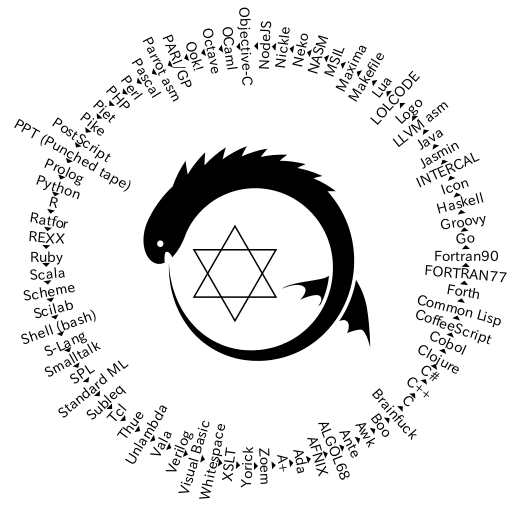
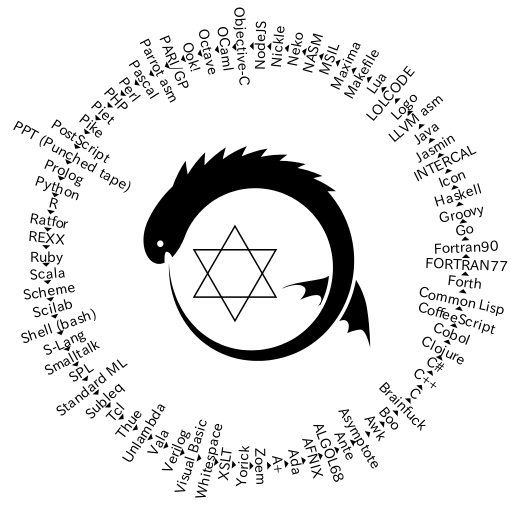
* the 75th language: Asymptote

Changed region(s): [[0.0312, 0.0, 1.0, 1.0], [0.0938, 0.4375, 0.125, 0.4688], [0.0625, 0.4062, 0.0938, 0.4375]]

diff --git a/QR.rb b/QR.rb
@@ -7,56 +7,56 @@ f(%((display~"#{e[%(#{f(%[echo~-En~"#{Q[e[e["Transcript~show:~'#{d[%(H#{Q[E[%(fu
 ersion='1.0'"}?><?xml-#{I="stylesheet"}~type='te xt/xsl'  href='QR  .xslt'?><xsl:#{I+O}~xmlns:xsl='http://www.w3.org/1999/`x5
 8SL/Transform'><xsl:output~method='text '/><#   {U="     xsl:      template"}~match='/'><`x21[CDATA[#{%(H,format="#{y="";f("^
 H{-}{txt}{#{Q[E[%(with~Ada.Text_Io;pr  oce     d                            ure~qr~is~beg!~Ada.Text_Io.Put_L!e("#{d[%(Z"#{e[%
-W[STRINGz:=~226+~153,a:=z+~16 6,b:=    a                                   +"2"+z+~160,c:=b+"8"+z+~165,t:="#{d[%(BEGIN{s=#{E[
-%(f={n~as~!t|'Y'*n};a=0;s=#{  V[Q                                                    [E["#!clude"+M["#!clude<iostream>`n!t~mX
-{std::cout<<#{E[%(class~Pro    g                                                    ram{public~static~void~MX{System.#{C+E[(%
-((doseq[s(lazy-cat["IDENTI                                                                 FICATION~DIVISION.""PROGRAM-ID.~QR
-.""PROCEDURE~DIVISION."'D                                                                 ISPLA`x59](map~#(str"~~~~^""(.repla
-ce~%1"^"""^"^"")"^"&")(r                                                                       e-seq~#".{1,45}""#{e[%((f=(n)-
->Array(n+1).jo!~"Y");co                                                                       nsole.log("%s",#{V[E[%((H-l!e"#
-{e[%(~:~A~."#{g*9}"~;                                    ~:~B~A~."                                ~WRITE(*,*)'"~A~;~:~C~B~T`x
-59PE~."~'"~CR~;~:~D                              ~S"~#$D"~C~S^"~Z~^"(&"~C~                       S^"~#{e[%(package~ma!;import
-"fmt";func~mX{fmt.                           Pr!t#{E[%(Z'#{e[("ma!=putStr"+E[%(                   procedure~mX;i:=c:=0;s:=#{E
-[%(.class~public                         ~QR`n.super~#{$T="java/io/Pr!tStream"}`n.                  method~public~static~ma!(
-[L#{S="java/lan                        g/"}SJ;)V~;]`n.limit~stack~2`ngetstatic~#{S}Sy                stem/out~L#$T;`nldc~"#{e
-[%(class~QR{pu                       blic~static~void~ma!(SJ[]v){SJ~c[]=new~SJ[9000],y=               "",z=y,s="#{z=t=(0..r=q
-=126).map{|n|                      [n,[]]};a="";b=->n{a<<(n%78+55)%84+42};(%(@s=global[#               {i=(s=%(PR~"`x48AI^~1.
-2~PR~"VISIBL                      E^~"#{Q["Z"+E[%(all:`n`t@echo~'#{d["l!el:99999;Z#{E[%(.a              ssembly~t{}.method~st
-atic~void~M                     X{.entrypo!t~ldstr"# {e[%(m:db`x60#{e[s="$Z#{E[%(Zf#{E["req             uire('util').Z#{E["#i
-mport"+M["Z                    _sJ"+E[%(s=toascii#{   E["Z#{E[%(say"#{e["#$D(output);beg!~H(#            {f((p="eval";%($_="#
-{s=%(<?php                    ~function~f($n){retu  r  n~str_repeat("Y",$n);};$f="f";$z=3+$w=s            trlen($s=#{V[Q[E["!
-t~mX{H#{E[                   %((___________)dup~=  /s(  |~~~~~.~~~|)def(#{Q["qr:-H('#{Q[e[%(fo            r~c~!"".jo!(["say~'
-%s'^n"%l~f       or         ~l~!#{E[d[%(eval$s=%  q(#$s  )),?']]}.split("^n")]):Z('cat("r=fput(            char(%d))^n")'%ord
-(c))`nZ('c                 at("end^n")'))],?']}  ').",B]  }){9~7{exch~dup~1~and~79~mul~32~add~ex           ch~2~idiv~3~1~roll
-~s~exch~2~!               dex~exch                                     ~put~1~sub~dup~6~eq{1~sub           }if}repeat~s~=~pop
-~pop}forall~        =~q  uit)]};ret  urn~0;}  "]],"{$f(",")  }"]})*3  ;echo"^x89PNG^r^n^x1a^n";$m          ="";$t="^xc0^0^xff
-";for($i=-1;$       i<128*$z;$m.=$c-  -?($w  -$c||$i>$z)&&$i  /$z<(  $c<$w?ord($s[(!t)($c/3)]):$c          --%3+2)?$t[2].$t[$
-c%3%2].$t[$c%3]:   "^0^0^0":"^0")$c=+  +$i  %$z;foreach(array  ("I  `x48DR".pack("NNCV",$w+2,128,          8,2),"IDAT".gzcomp
-ress($m),"IEND")as$d)e cho~pack("NA*N"  ,  strlen($d)-4,$d,crc  3  2($d));?>);(s+N*(-s.size%6)).u          npack("B*")[0].K(/
-.{6}/){n=$&.to_i~2;((n +14)/26*6+n+47).   chr}}";s|.|$n=ord$&;s   ubstr~unpack(B8,chr$n-!t($n/32)          *6-41),2|eg;Z~pack
-"B*",$_).scan(/[~,-:A- z]+|(.)/){p="s+  +  #{$1?"chr~#{$1.ord}  +  e":$&+?+};"+p};p),1){"'#     $          s',"}}'')end."]}"`
-nend)]};quit"]};t=num2  cell(b=11-cei  l(s  /13));for~n=1:9m=  {};  for~i=1:141f               =          @  (x,y,n)repmat(["
-Ook"~x~"~Ook"~y~32],[1~ abs(n)]);m(i  )=[f(  z=46,63,n)~f(q=  z-(i<  13)*13,q                  ,          i   -13)~f(33,z,1)~
-f(63,z,n)];end;t(x)=m(d  iff([0~s(x  =b==n)]  )+13);end;Zf(  "%%s",t  {:}))]]]}"]})+          N          ]     };"+N]}`x60`ng
-lobal~_start`n_start:mov ~edx,#{s.                                     size}`nmov~e           c          x      ,m`nmov~ebx,1
-`nmov~eax,4`n!t~128`nmov  ~ebx,0`nmov~eax,1`n!t  ~128)]}  "call~void~[mscorlib]Syst em.Conso l          e       ::Write(sJ)re
-t})]};quit();",?$].K(?'){  "'^''"}}')].K(/[:"]/,  ":^0"  ),/[~Y`t;"(){}`[`]]/]}"~PR~"`x4bT` x          4         8`x58B`x59E~
-B`x59E)).size+1}x~i8]c"#{s  .K(/[^"]/){"^%`x58"%$  &.o  rd}}^00"declare~i32@puts(i8*)def!e~i          3          2@mX{%1=call
-~i32@puts(i8*getelementptr(  [#{i}x~i8]*@s,i32~0,i  3  2~0))ret~i32~0})).bytes{|n|r,z=z[n]|          |           (b[r/78];b[r
-];q<6083&&z[n]=[q+=1,[]];t[n   ])};b[r/78];b[r]}";!   t~i=0,n=0,q=0;for(;++n<126;)c[n]=""           +             (char)n;for
-(;i<s.length();){q=q*78+(s.ch   arAt(i)-13)%84;if(i+ +%2>0){y=q<n?c[q]:y;c[n++]=z+y.char           A              t(0);System
-.out.Z(z=c[q]);q=0;}}}})]}"`n!    vokevirtual~#$T/Zln(L#{S}SJ;)V`nreturn`n.end~method)           +N]};H(          "DO,1<-#"||
-*s);s?while~t:=ord(move(1))do{i+    :=1;u:=-i;every~0to~7do{u:=u*2+t%2;t/:=2};H("PLE           ASE")^(i%          4/3);H("DO,
-1SUB#"||i||"<-#"||((c-u)%256));c:      =u;};H("PLEASEREADOUT,1^nPLEASEGIVEUP");en            d)]).tr(B,?&)]}'.tr  ('&','YY');
-)]};})]}"~DUP~FOR~S"~&A,&"~C~NE`x58       T~S^"~&A)^",&"~C~0~DO~B~."~&char("~C             OUNT~.~."~),&'"~CR~LOO  P~S^"~&^"^
-""~C~S"~end~#$D"~C~A~."~STOP"~CR~A~."~        END"~CR~B`x59E~;~D~)]}"))],'               #{f(',')}']}))]}"))["~~~  ~^"~^".""S
-TOP~RUN."])](Zln(str"#{g*8}"s)))))]};}})             ]};}"]]],"$(f                    (","))"]};for~i~!~range(len(s)):b~as~!t
-=s[i];a-=b;Z(('+'*-a~if~0>a~else'-'*a)+'.');                                       a=b;).tr~B,?`x21]};K(/`x21/,"Y",s);Z~s})]}
-";FORiTO`~UPBtDO`~INTn:=ABSt[i];Z(~(50+n%64)+c+~                              (50+n%8MOD8)+c+~(50+nMOD8)+b+"`x4a"+a)OD]*"REPR
-"]}")]}");end;)]+"`nsys.exit~0",/[^{}]/]}}",35){y<<",`n                "+$S;"%s"}}")+y}]]></#{U}></xsl:#{I}>"].K~N,'"&~VbLf~&
-"'}":s="~~~":For~i=0To~7:s~&=Chr(32-(Asc(c)>>7-i~And~1)*23):Next:#{C}(s~&n~&Chr(9)&n~&"~~"):Next:#{C}(n~&n~&n):End~Sub:End~Mo
-dule),3){%($H("%s",#$S);)+N}}end~endmodule)],?%]};return~0;}).reverse],/[`[`]$]/],"[f~",?]]}"~^x60.&]k^n::=^na)]};Z"0~0~-1";)
-]]};),?']}';cr"]]]}"|sed~-E~-e~'s/([`x5eY]|Y.){1,120}/Zf("%s","^0");^n/g'],7){%(Zf("%s","#{d[d[$s],?']}")`n)}}quit)]}")),196)
-{%(Z#$S;)}}})).gsub(/[!HJKXYZ^`~]/){[B*2,:write,B,:tring,:gsub,"ain()",B*4,:print,g,:in][$&.ord%47%12]})))*"")#_buffer_for_fu
-#_buffer_for_future_bug_fixes_#_buffer_for_future_bug_fixes_#_buffer_for_future_bug_fixes_#_buffer_for_future_bug_fixes_#_buf
+W[STRINGz:=~226+~153,a:=z+~16 6,b:=    a                                   +"2"+z+~160,c:=b+"8"+z+~165,t:="#{d[%(H('#{Q[e[%(B
+EGIN{s=#{E[%(f={n~as~!t|'Y'*  n};                                                    a=0;s=#{V[Q[E["#!clude"+M["#!clude<iostr
+eam>`n!t~mX{std::cout<<#{E[    %                                                    (class~Program{public~static~void~MX{Syst
+em.#{C+E[(%((doseq[s(lazy-                                                                 cat["IDENTIFICATION~DIVISION.""PRO
+GRAM-ID.~QR.""PROCEDURE~D                                                                 IVISION."'DISPLA`x59](map~#(str"~~~
+~^""(.replace~%1"^"""^"^                                                                       "")"^"&")(re-seq~#".{1,45}""#{
+e[%((f=(n)->Array(n+1).                                                                       jo!~"Y");console.log("%s",#{V[E
+[%((H-l!e"#{e[%(~:~A~                                    ."#{g*9}"                                ~;~:~B~A~."~WRITE(*,*)'"~A~
+;~:~C~B~T`x59PE~."~                              '"~CR~;~:~D~S"~#$D"~C~S^"                       ~Z~^"(&"~C~S^"~#{e[%(package
+~ma!;import"fmt";f                           unc~mX{fmt.Pr!t#{E[%(Z'#{e[("ma!=p                   utStr"+E[%(procedure~mX;i:=
+c:=0;s:=#{E[%(.c                         lass~public~QR`n.super~#{$T="java/io/Pr!t                  Stream"}`n.method~public~
+static~ma!([L#{                        S="java/lang/"}SJ;)V~;]`n.limit~stack~2`ngetst                atic~#{S}System/out~L#$T
+;`nldc~"#{e[%(                       class~QR{public~static~void~ma!(SJ[]v){SJ~c[]=new~               SJ[9000],y="",z=y,s="#{
+z=t=(0..r=q=1                      26).map{|n|[n,[]]};a="";b=->n{a<<(n%78+55)%84+42};(%(               @s=global[#{i=(s=%(PR~
+"`x48AI^~1.2                      ~PR~"VISIBLE^~"#{Q["Z"+E[%(all:`n`t@echo~'#{d["l!el:9999              9;Z#{E[%(.assembly~t{
+}.method~st                     atic~void~MX{.entryp o!t~ldstr"#{e[%(m:db`x60#{e[s="$Z#{E[%             (Zf#{E["require('util
+').Z#{E["#i                    mport"+M["Z_sJ"+E[%(   s=toascii#{E["Z#{E[%(say"#{e["#$D(outpu            t);beg!~H(#{f((p="ev
+al";%($_="                    #{s=%(<?php~function  ~  f($n){return~str_repeat("Y",$n);};$f="f            ";$z=3+$w=strlen($s
+=#{V[Q[E["                   !t~mX{H#{E[%((______  ___  __)dup~=/s(|~~~~~.~~~|)def(#{Q["qr:-H(            '#{Q[e[%(for~c~!"".
+jo!(["say~       '%         s'^n"%l~for~l~!#{E[d  [%(ev  al$s=%q(#$s)),?']]}.split("^n")]):Z('c            at("r=fput(char(%d
+))^n")'%or                 d(c))`nZ('cat("end^n  ")'))],  ?']}').",B]}){9~7{exch~dup~1~and~79~mu           l~32~add~exch~2~id
+iv~3~1~roll               ~s~exch~                                     2~!dex~exch~put~1~sub~dup           ~6~eq{1~sub}if}rep
+eat~s~=~pop~        pop  }forall~=~  quit)]}  ;return~0;}"]  ],"{$f(  ",")}"]})*3;echo"^x89PNG^r^          n^x1a^n";$m="";$t=
+"^xc0^0^xff";       for($i=-1;$i<128  *$z;$  m.=$c--?($w-$c|  |$i>$  z)&&$i/$z<($c<$w?ord($s[(!t)          ($c/3)]):$c--%3+2)
+?$t[2].$t[$c%3%2   ].$t[$c%3]:"^0^0^0  ":"  ^0")$c=++$i%$z;fo  rea  ch(array("I`x48DR".pack("NNCV          ",$w+2,128,8,2),"I
+DAT".gzcompress($m),"I END")as$d)echo~  p  ack("NA*N",strlen($  d  )-4,$d,crc32($d));?>);(s+N*(-s          .size%6)).unpack("
+B*")[0].K(/.{6}/){n=$& .to_i~2;((n+14)/   26*6+n+47).chr}}";s|.   |$n=ord$&;substr~unpack(B8,chr$          n-!t($n/32)*6-41),
+2|eg;Z~pack"B*",$_).sc an(/[~,-:A-z]+|  (  .)/){p="s++#{$1?"ch  r  ~#{$1.ord}+e":$&+?+};"+p     }          ;p),1){"'#$s',"}}'
+')end."]}"`nend)]};qui  t"]};t=num2ce  ll(  b=11-ceil(s/13));  for  ~n=1:9m={};f               o          r  ~i=1:141f=@(x,y,
+n)repmat(["Ook"~x~"~Ook "~y~32],[1~a  bs(n)  ]);m(i)=[f(z=46  ,63,n  )~f(q=z-                  (          i   <13)*13,q,i-13)
+~f(33,z,1)~f(63,z,n)];e  nd;t(x)=m(  diff([0  ~s(x=b==n)])+  13);end  ;Zf("%%s",t{:}          )          )     ]]]}"]})+N]};"
++N]}`x60`nglobal~_start` n_start:m                                     ov~edx,#{s.s           i          z      e}`nmov~ecx,m
+`nmov~ebx,1`nmov~eax,4`n  !t~128`nmov~ebx,0`nmo  v~eax,1  `n!t~128)]}"call~void~[ms corlib]S y          s       tem.Console::
+Write(sJ)ret})]};quit();"  ,?$].K(?'){"'^''"}}')  ].K(/  [:"]/,":^0"),/[~Y`t;"(){}`[`]]/]}" ~          P         R~"`x4bT`x48
+`x58B`x59E~B`x59E)).size+1  }x~i8]c"#{s.K(/[^"]/)  {"^  %`x58"%$&.ord}}^00"declare~i32@puts(          i          8*)def!e~i32
+@mX{%1=call~i32@puts(i8*get  elementptr([#{i}x~i8]  *  @s,i32~0,i32~0))ret~i32~0})).bytes{|          n           |r,z=z[n]||(
+b[r/78];b[r];q<6083&&z[n]=[q   +=1,[]];t[n])};b[r/7   8];b[r]}";!t~i=0,n=0,q=0;for(;++n<1           2             6;)c[n]=""+
+(char)n;for(;i<s.length();){q   =q*78+(s.charAt(i)-1 3)%84;if(i++%2>0){y=q<n?c[q]:y;c[n+           +              ]=z+y.charA
+t(0);System.out.Z(z=c[q]);q=0;    }}}})]}"`n!vokevirtual~#$T/Zln(L#{S}SJ;)V`nreturn`n.           end~met          hod)+N]};H(
+"DO,1<-#"||*s);s?while~t:=ord(mo    ve(1))do{i+:=1;u:=-i;every~0to~7do{u:=u*2+t%2;t/           :=2};H("P          LEASE")^(i%
+4/3);H("DO,1SUB#"||i||"<-#"||((c-      u)%256));c:=u;};H("PLEASEREADOUT,1^nPLEASE            GIVEUP");end)]).tr(  B,?&)]}'.tr
+('&','YY');)]};})]}"~DUP~FOR~S"~&A,       &"~C~NE`x58T~S^"~&A)^",&"~C~0~DO~B~.             "~&char("~COUNT~.~."~)  ,&'"~CR~LO
+OP~S^"~&^"^""~C~S"~end~#$D"~C~A~."~STO        P"~CR~A~."~END"~CR~B`x59E~;~               D~)]}"))],'#{f(',')}']})  )]}"))["~~
+~~^"~^".""STOP~RUN."])](Zln(str"#{g*8}"s             )))))]};}})]}                    ;}"]]],"$(f(","))"]};for~i~!~range(len(
+s)):b~as~!t=s[i];a-=b;Z(('+'*-a~if~0>a~else'                                       -'*a)+'.');a=b;).tr~B,?`x21]};K(/`x21/,"Y"
+,s);Z~s})],?']}');)]}";FORiTO`~UPBtDO`~INTn:=ABS                              t[i];Z(~(50+n%64)+c+~(50+n%8MOD8)+c+~(50+nMOD8)
++b+"`x4a"+a)OD]*"REPR"]}")]}");end;)]+"`nsys.exit~0",/[                ^{}]/]}}",35){y<<",`n"+$S;"%s"}}")+y}]]></#{U}></xsl:#
+{I}>"].K~N,'"&~VbLf~&"'}":s="~~~":For~i=0To~7:s~&=Chr(32-(Asc(c)>>7-i~And~1)*23):Next:#{C}(s~&n~&Chr(9)&n~&"~~"):Next:#{C}(n~
+&n~&n):End~Sub:End~Module),3){%($H("%s",#$S);)+N}}end~endmodule)],?%]};return~0;}).reverse],/[`[`]$]/],"[f~",?]]}"~^x60.&]k^n
+::=^na)]};Z"0~0~-1";)]]};),?']}';cr"]]]}"|sed~-E~-e~'s/([`x5eY]|Y.){1,120}/Zf("%s","^0");^n/g'],7){%(Zf("%s","#{d[d[$s],?']}"
+)`n)}}quit)]}")),196){%(Z#$S;)}}})).gsub(/[!HJKXYZ^`~]/){[B*2,:write,B,:tring,:gsub,"ain()",B*4,:print,g,:in][$&.ord%47%12]})
+))*"")#_buffer_for_future_bug_fixes_#_buffer_for_future_bug_fixes_#_buffer_for_future_bug_fixes_#_buffer_for_future_bug_fixes
 #######################  Quine Relay -- Copyright (c) 2013, 2014 Yusuke Endoh (@mametter), @hirekoke  ######################)

diff --git a/src/code-gen.rb b/src/code-gen.rb
@@ -621,6 +621,13 @@ class Awk < CodeGen
   Code = %q(%(BEGIN{s=#{E[PREV.tr B,?!]};gsub(/!/,"\\\\\\\\",s);print s}))
 end
 
+class Asymptote < CodeGen
+  File = "QR.asy"
+  Cmd = "asy QR.asy > OUTFILE"
+  Apt = "asymptote"
+  Code = %q(%(write('#{Q[e[PREV],?']}');))
+end
+
 class ALGOL68_Ante < CodeGen
   File = ["QR.a68", "QR.ante"]
   Cmd = ["a68g QR.a68 > OUTFILE", "ruby vendor/ante.rb QR.ante > OUTFILE"]

diff --git a/README.md b/README.md
@@ -7,7 +7,7 @@
 This is a Ruby program that generates
 Scala program that generates
 Scheme program that generates
-...(through 74 languages in total)...
+...(through 75 languages in total)...
 REXX program that generates
 the original Ruby code again.
 
@@ -25,14 +25,15 @@ If you are using Ubuntu 14.10 "Utopic Unicorn", you can perform the following st
 
 First, you have to type the following apt-get command to install all of them.
 
-    $ sudo apt-get install afnix algol68g aplus-fsf bash bf boo bsdgames \
-      clisp clojure1.4 cmake coffeescript f2c fp-compiler g++ gauche gawk \
-      gcc gforth gfortran ghc ghostscript gnat gnu-smalltalk gobjc golang \
-      groovy icont iconx intercal iverilog jasmin-sable libpng12-dev llvm \
-      lua5.2 make maxima mlton mono-devel mono-mcs mono-vbnc nasm neko \
-      nickle nodejs ocaml octave open-cobol openjdk-6-jdk pari-gp parrot \
-      perl php5-cli pike7.8 python r-base ratfor regina-rexx ruby2.0 scala \
-      scilab slsh spl-core swi-prolog tcl ucblogo valac xsltproc yorick zoem
+    $ sudo apt-get install afnix algol68g aplus-fsf asymptote bash bf boo \
+      bsdgames clisp clojure1.4 cmake coffeescript f2c fp-compiler g++ \
+      gauche gawk gcc gforth gfortran ghc ghostscript gnat gnu-smalltalk \
+      gobjc golang groovy icont iconx intercal iverilog jasmin-sable \
+      libpng12-dev llvm lua5.2 make maxima mlton mono-devel mono-mcs \
+      mono-vbnc nasm neko nickle nodejs ocaml octave open-cobol \
+      openjdk-6-jdk pari-gp parrot perl php5-cli pike7.8 python r-base \
+      ratfor regina-rexx ruby2.0 scala scilab slsh spl-core swi-prolog tcl \
+      ucblogo valac xsltproc yorick zoem
 
 Then, you have to build the bundled interpreters.
 
@@ -73,7 +74,8 @@ If you could do it, please let me know.  Good luck.
     $ gnatmake qr.adb && ./qr > QR.als
     $ axi QR.als > QR.a68
     $ a68g QR.a68 > QR.ante
-    $ ruby vendor/ante.rb QR.ante > QR.awk
+    $ ruby vendor/ante.rb QR.ante > QR.asy
+    $ asy QR.asy > QR.awk
     $ awk -f QR.awk > QR.boo
     $ booi QR.boo > QR.bf
     $ bf QR.bf > QR.c
@@ -165,56 +167,57 @@ I used the following Ubuntu deb packages to test this program.
 23 |AFNIX              |afnix          |2.2.0-2ubuntu1
 24 |ALGOL68            |algol68g       |2.4.1-1
 25 |Ante               |*N/A*          |-
-26 |Awk                |gawk           |1:4.0.1+dfsg-2.1ubuntu2
-27 |Boo                |boo            |0.9.5~git20110729.r1.202a430-2
-28 |Brainfuck          |bf             |20041219ubuntu5
-29 |C                  |gcc            |4:4.8.2-1ubuntu6
-30 |C++                |g++            |4:4.8.2-1ubuntu6
-31 |C#                 |mono-mcs       |3.2.8+dfsg-4ubuntu1
-32 |Clojure            |clojure1.4     |1.4.0+dfsg-3
-33 |Cobol              |open-cobol     |1.1-1build1
-34 |CoffeeScript       |coffeescript   |1.4.0-1
-35 |Common Lisp        |clisp          |1:2.49-9ubuntu1
-36 |Forth              |gforth         |0.7.0+ds2-0.1
-37 |FORTRAN77          |f2c            |20100827-1
-38 |Fortran90          |gfortran       |4:4.8.2-1ubuntu6
-39 |Go                 |golang         |2:1.2.1-2ubuntu1
-40 |Groovy             |groovy         |2.0.0~beta2+isreally1.8.6-0ubuntu1
-41 |Haskell            |ghc            |7.6.3-10
-42 |Icon               |icont          |9.4.3-4.2ubuntu1
+26 |Asymptote          |asymptote      |2.15-2build2
+27 |Awk                |gawk           |1:4.0.1+dfsg-2.1ubuntu2
+28 |Boo                |boo            |0.9.5~git20110729.r1.202a430-2
+29 |Brainfuck          |bf             |20041219ubuntu5
+30 |C                  |gcc            |4:4.8.2-1ubuntu6
+31 |C++                |g++            |4:4.8.2-1ubuntu6
+32 |C#                 |mono-mcs       |3.2.8+dfsg-4ubuntu1
+33 |Clojure            |clojure1.4     |1.4.0+dfsg-3
+34 |Cobol              |open-cobol     |1.1-1build1
+35 |CoffeeScript       |coffeescript   |1.4.0-1
+36 |Common Lisp        |clisp          |1:2.49-9ubuntu1
+37 |Forth              |gforth         |0.7.0+ds2-0.1
+38 |FORTRAN77          |f2c            |20100827-1
+39 |Fortran90          |gfortran       |4:4.8.2-1ubuntu6
+40 |Go                 |golang         |2:1.2.1-2ubuntu1
+41 |Groovy             |groovy         |2.0.0~beta2+isreally1.8.6-0ubuntu1
+42 |Haskell            |ghc            |7.6.3-10
+43 |Icon               |icont          |9.4.3-4.2ubuntu1
    |                   |iconx          |9.4.3-4.2ubuntu1
-43 |INTERCAL           |intercal       |29:0.29-3
-44 |Jasmin             |jasmin-sable   |2.4.0-3
-45 |Java               |openjdk-6-jdk  |6b33-1.13.5-1ubuntu0.14.04
-46 |LLVM asm           |llvm           |1:3.4-0ubuntu1
-47 |Logo               |ucblogo        |5.5-2.1
-48 |LOLCODE            |*N/A*          |-
-49 |Lua                |lua5.2         |5.2.3-1
-50 |Makefile           |make           |3.81-8.2ubuntu3
-51 |Maxima             |maxima         |5.32.1-1
-52 |MSIL               |mono-devel     |3.2.8+dfsg-4ubuntu1
-53 |NASM               |nasm           |2.10.09-1
-54 |Neko               |neko           |2.0.0-3
-55 |Nickle             |nickle         |2.77-1
-56 |NodeJS             |nodejs         |0.10.25~dfsg2-2ubuntu1
-57 |Objective-C        |gobjc          |4:4.8.2-1ubuntu6
-58 |OCaml              |ocaml          |4.01.0-3ubuntu3
-59 |Octave             |octave         |3.8.1-1ubuntu1
-60 |Ook!               |*N/A*          |-
-61 |PARI/GP            |pari-gp        |2.5.5-1
-62 |Parrot asm         |parrot         |5.9.0-1build1
-63 |Pascal             |fp-compiler    |2.6.2-8
-64 |Perl               |perl           |5.18.2-2ubuntu1
-65 |PHP                |php5-cli       |5.5.9+dfsg-1ubuntu4.4
-66 |Piet               |*N/A*          |-
-67 |Pike               |pike7.8        |7.8.700-7
-68 |PostScript         |ghostscript    |9.10~dfsg-0ubuntu10.2
-69 |PPT (Punched tape) |bsdgames       |2.17-21
-70 |Prolog             |swi-prolog     |6.6.4-2ubuntu1
-71 |Python             |python         |2.7.5-5ubuntu3
-72 |R                  |r-base         |3.0.2-1ubuntu1
-73 |Ratfor             |ratfor         |1.0-15
-74 |REXX               |regina-rexx    |3.6-2
+44 |INTERCAL           |intercal       |29:0.29-3
+45 |Jasmin             |jasmin-sable   |2.4.0-3
+46 |Java               |openjdk-6-jdk  |6b33-1.13.5-1ubuntu0.14.04
+47 |LLVM asm           |llvm           |1:3.4-0ubuntu1
+48 |Logo               |ucblogo        |5.5-2.1
+49 |LOLCODE            |*N/A*          |-
+50 |Lua                |lua5.2         |5.2.3-1
+51 |Makefile           |make           |3.81-8.2ubuntu3
+52 |Maxima             |maxima         |5.32.1-1
+53 |MSIL               |mono-devel     |3.2.8+dfsg-4ubuntu1
+54 |NASM               |nasm           |2.10.09-1
+55 |Neko               |neko           |2.0.0-3
+56 |Nickle             |nickle         |2.77-1
+57 |NodeJS             |nodejs         |0.10.25~dfsg2-2ubuntu1
+58 |Objective-C        |gobjc          |4:4.8.2-1ubuntu6
+59 |OCaml              |ocaml          |4.01.0-3ubuntu3
+60 |Octave             |octave         |3.8.1-1ubuntu1
+61 |Ook!               |*N/A*          |-
+62 |PARI/GP            |pari-gp        |2.5.5-1
+63 |Parrot asm         |parrot         |5.9.0-1build1
+64 |Pascal             |fp-compiler    |2.6.2-8
+65 |Perl               |perl           |5.18.2-2ubuntu1
+66 |PHP                |php5-cli       |5.5.9+dfsg-1ubuntu4.4
+67 |Piet               |*N/A*          |-
+68 |Pike               |pike7.8        |7.8.700-7
+69 |PostScript         |ghostscript    |9.10~dfsg-0ubuntu10.2
+70 |PPT (Punched tape) |bsdgames       |2.17-21
+71 |Prolog             |swi-prolog     |6.6.4-2ubuntu1
+72 |Python             |python         |2.7.5-5ubuntu3
+73 |R                  |r-base         |3.0.2-1ubuntu1
+74 |Ratfor             |ratfor         |1.0-15
+75 |REXX               |regina-rexx    |3.6-2
 
 Note that some languages are not available in Ubuntu (marked as *N/A*).
 This repository includes their implementations in `vendor/`.
